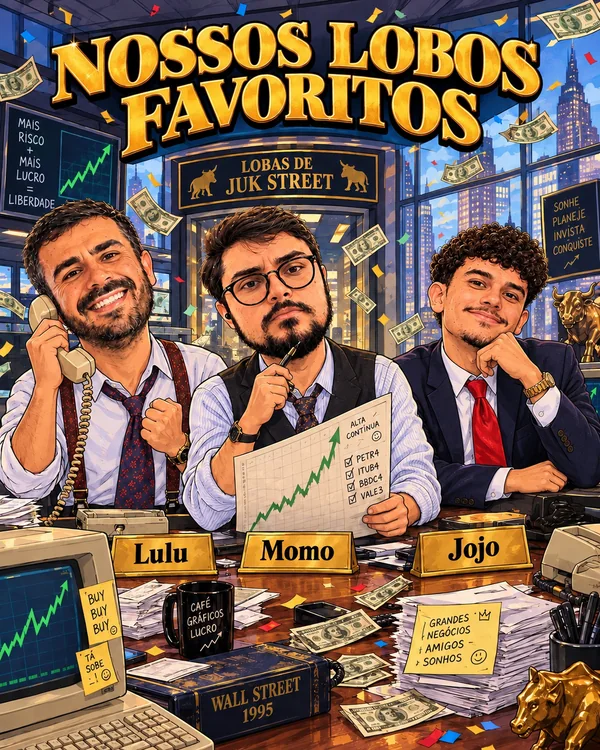
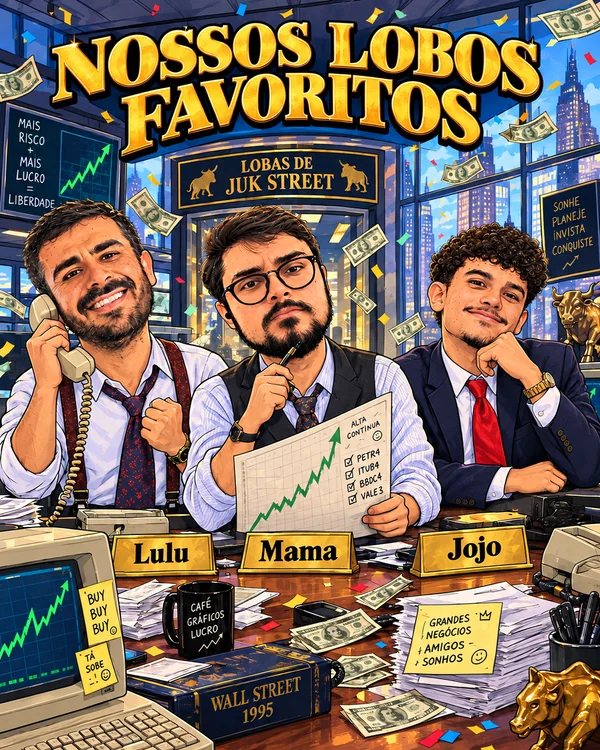
ultimo update

diff --git a/index.html b/index.html
@@ -795,7 +795,7 @@
           <h4>Mural</h4>
           <figure class="mural">
             <img src="imagens/lobos.webp" alt="Pôster Nossos Lobos Favoritos, brincadeira interna do escritório" onerror="this.style.display='none'">
-            <figcaption>Direto da parede do escritório: Lulu, Momo e Jojo em Juk Street.</figcaption>
+            <figcaption>Direto da parede do escritório: Lulu, Mama e Jojo em Juk Street.</figcaption>
           </figure>
         </div>
 
